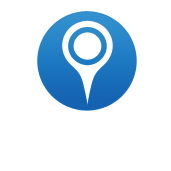
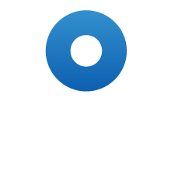
WIP: Initializing new view modules for search menu & settings menu. Replacing existing assets with new assets. Buddy: John

Changed region(s): [[0.2047, 0.0877, 0.8187, 0.6725], [0.4094, 0.0585, 0.614, 0.0877], [0.3509, 0.0877, 0.3801, 0.117]]

diff --git a/windows/src/AppHost.cpp b/windows/src/AppHost.cpp
@@ -85,6 +85,8 @@
 #include "WindowsPersistentSettingsModel.h"
 #include "IHttpCache.h"
 #include "HttpCache.h"
+#include "SearchMenuViewModule.h"
+#include "SettingsMenuViewModule.h"
 
 using namespace Eegeo::Windows;
 using namespace Eegeo::Windows::Input;
@@ -472,26 +474,25 @@ void AppHost::CreateApplicationViewModulesFromUiThread()
         m_messageBus
         );
 
-    /*m_pSecondaryMenuViewModule = Eegeo_NEW(ExampleApp::SecondaryMenu::View::SecondaryMenuViewModule)(
-        "ExampleAppWPF.SecondaryMenuView",
+    m_pSettingsMenuViewModule = Eegeo_NEW(ExampleApp::SettingsMenu::View::SettingsMenuViewModule)(
+        "ExampleAppWPF.SettingsMenuView",
         m_nativeState,
-        app.SecondaryMenuModule().GetSecondaryMenuModel(),
-        app.SecondaryMenuModule().GetSecondaryMenuViewModel(),
+        app.SettingsMenuModule().GetSettingsMenuModel(),
+        app.SettingsMenuModule().GetSettingsMenuViewModel(),
+        m_pModalBackgroundViewModule->GetView(),
         m_messageBus
-        );*/
+        );
 
-    /*m_pSearchResultMenuViewModule = Eegeo_NEW(ExampleApp::SearchResultMenu::View::SearchMenuViewModule)(
+    m_pSearchMenuViewModule = Eegeo_NEW(ExampleApp::SearchMenu::View::SearchMenuViewModule)(
         "ExampleAppWPF.SearchMenuView",
         m_nativeState,
-        app.SearchResultMenuModule().GetSearchResultMenuModel(),
-        app.SearchResultMenuModule().GetMenuViewModel(),
+        app.SearchMenuModule().GetSearchMenuModel(),
+        app.SearchMenuModule().GetSearchMenuViewModel(),
+        app.SearchMenuModule().GetSearchSectionViewModel(),
         app.CategorySearchModule().GetCategorySearchRepository(),
-        app.SearchResultMenuModule().GetSearchResultMenuViewModel(),
-        app.SearchResultMenuModule().GetSearchResultMenuOptionsModel(),
-        app.SearchResultMenuModule().GetSearchResultMenuOrder(),
-        app.GetAppModeModel(),
+        m_pModalBackgroundViewModule->GetView(),
         m_messageBus
-        );*/
+        );
 
     // Pop-up layer.
     m_pSearchResultPoiViewModule = Eegeo_NEW(ExampleApp::SearchResultPoi::View::SearchResultPoiViewModule)(

diff --git a/windows/src/SearchMenu/View/SearchMenuViewModule.h b/windows/src/SearchMenu/View/SearchMenuViewModule.h
@@ -12,6 +12,7 @@
 #include "Rendering.h"
 #include "SearchMenuController.h"
 #include "Types.h"
+#include "IMenuViewModule.h"
 
 namespace ExampleApp
 {
@@ -19,7 +20,7 @@ namespace ExampleApp
     {
         namespace View
         {
-            class SearchMenuViewModule: public ISearchMenuViewModule, private Eegeo::NonCopyable
+            class SearchMenuViewModule: public Menu::View::IMenuViewModule, private Eegeo::NonCopyable
             {
             private:
                 SearchMenuController* m_pController;
@@ -27,19 +28,19 @@ namespace ExampleApp
                 
             public:
                 SearchMenuViewModule(const std::string& viewName,
-                                     WindowsNativeState& nativeState, Menu::View::IMenuModel& searchMenuModel,
+                                     WindowsNativeState& nativeState,
+                                     Menu::View::IMenuModel& searchMenuModel,
                                      Menu::View::IMenuViewModel& searchMenuViewModel,
                                      Menu::View::IMenuSectionViewModel& searchSectionViewModel,
-                                     const Eegeo::Rendering::ScreenProperties& screenProperties,
                                      CategorySearch::View::ICategorySearchRepository& categorySearchRepository,
                                      Modality::View::IModalBackgroundView& modalBackgroundView,
                                      ExampleAppMessaging::TMessageBus& messageBus);
                 
                 ~SearchMenuViewModule();
                 
-                Menu::View::MenuController& GetMenuController() const;
+                Menu::View::MenuController& GetMenuController();
                 
-                SearchMenuView& GetSearchMenuView() const;
+                Menu::View::IMenuView& GetMenuView();
             };
         }
     }

diff --git a/windows/src/SearchMenu/View/SearchMenuViewModule.cpp b/windows/src/SearchMenu/View/SearchMenuViewModule.cpp
@@ -17,7 +17,6 @@ namespace ExampleApp
                                                        Menu::View::IMenuModel& searchMenuModel,
                                                        Menu::View::IMenuViewModel& searchMenuViewModel,
                                                        Menu::View::IMenuSectionViewModel& searchSectionViewModel,
-                                                       const Eegeo::Rendering::ScreenProperties& screenProperties,
                                                        CategorySearch::View::ICategorySearchRepository& categorySearchRepository,
                                                        Modality::View::IModalBackgroundView& modalBackgroundView,
                                                        ExampleAppMessaging::TMessageBus& messageBus)
@@ -41,12 +40,12 @@ namespace ExampleApp
                 Eegeo_DELETE m_pView;
             }
 
-            Menu::View::MenuController& SearchMenuViewModule::GetMenuController() const
+            Menu::View::MenuController& SearchMenuViewModule::GetMenuController()
             {
                 return *m_pController;
             }
 
-            SearchMenuView& SearchMenuViewModule::GetSearchMenuView() const
+            Menu::View::IMenuView& SearchMenuViewModule::GetMenuView()
             {
                 return *m_pView;
             }

diff --git a/windows/src/SettingsMenu/View/SettingsMenuViewModule.h b/windows/src/SettingsMenu/View/SettingsMenuViewModule.h
@@ -12,6 +12,7 @@
 #include "BidirectionalBus.h"
 #include "SettingsMenuController.h"
 #include "Modality.h"
+#include "IMenuViewModule.h"
 
 namespace ExampleApp
 {
@@ -19,7 +20,7 @@ namespace ExampleApp
     {
         namespace View
         {
-            class SettingsMenuViewModule: public ISettingsMenuViewModule, private Eegeo::NonCopyable
+            class SettingsMenuViewModule: public Menu::View::IMenuViewModule, private Eegeo::NonCopyable
             {
             private:
                 SettingsMenuView* m_pView;
@@ -37,8 +38,8 @@ namespace ExampleApp
 
                 ~SettingsMenuViewModule();
 
-                Menu::View::MenuController& GetMenuController() const;
-                Menu::View::IMenuView& GetMenuView() const;
+                Menu::View::MenuController& GetMenuController();
+                Menu::View::IMenuView& GetMenuView();
             };
         }
     }

diff --git a/windows/src/SettingsMenu/View/SettingsMenuViewModule.cpp b/windows/src/SettingsMenu/View/SettingsMenuViewModule.cpp
@@ -35,22 +35,17 @@ namespace ExampleApp
 
             SettingsMenuViewModule::~SettingsMenuViewModule()
             {
-                ASSERT_UI_THREAD
-
                 Eegeo_DELETE m_pController;
                 Eegeo_DELETE m_pView;
             }
 
-            Menu::View::MenuController& SettingsMenuViewModule::GetMenuController() const
+            Menu::View::MenuController& SettingsMenuViewModule::GetMenuController()
             {
-                ASSERT_UI_THREAD
-
                 return *m_pController;
             }
 
-            Menu::View::IMenuView& SettingsMenuViewModule::GetMenuView() const
+            Menu::View::IMenuView& SettingsMenuViewModule::GetMenuView()
             {
-                ASSERT_UI_THREAD
                 return *m_pView;
             }
         }

diff --git a/windows/src/ModalBackground/View/IModalBackgroundViewModule.h b/windows/src/ModalBackground/View/IModalBackgroundViewModule.h
@@ -2,6 +2,9 @@
 
 #pragma once
 
+#include "IModalBackgroundView.h"
+#include "ModalBackgroundController.h"
+
 namespace ExampleApp
 {
     namespace ModalBackground
@@ -12,6 +15,9 @@ namespace ExampleApp
             {
             public:
                 virtual ~IModalBackgroundViewModule() { }
+
+                virtual Modality::View::IModalBackgroundView& GetView() = 0;
+                virtual Modality::View::ModalBackgroundController& GetController() = 0;
             };
         }
     }

diff --git a/windows/src/ModalBackground/View/ModalBackgroundViewModule.cpp b/windows/src/ModalBackground/View/ModalBackgroundViewModule.cpp
@@ -30,6 +30,15 @@ namespace ExampleApp
                 Eegeo_DELETE(m_pController);
                 Eegeo_DELETE(m_pView);
             }
+            Modality::View::IModalBackgroundView& ModalBackgroundViewModule::GetView()
+            {
+                return *m_pView;
+            }
+
+            Modality::View::ModalBackgroundController& ModalBackgroundViewModule::GetController()
+            {
+                return *m_pController;
+            }
         }
     }
 }

diff --git a/windows/src/Menu/View/IMenuViewModule.h b/windows/src/Menu/View/IMenuViewModule.h
@@ -16,8 +16,8 @@ namespace ExampleApp
             public:
                 virtual ~IMenuViewModule() { }
 
-                virtual IMenuView& GetMenuView() const = 0;
-                virtual MenuController& GetMenuController() const = 0;
+                virtual IMenuView& GetMenuView() = 0;
+                virtual MenuController& GetMenuController() = 0;
             };
         }
     }

diff --git a/windows/src/ModalBackground/View/ModalBackgroundViewModule.h b/windows/src/ModalBackground/View/ModalBackgroundViewModule.h
@@ -29,6 +29,9 @@ namespace ExampleApp
                 );
 
                 ~ModalBackgroundViewModule();
+
+                Modality::View::IModalBackgroundView& GetView();
+                Modality::View::ModalBackgroundController& GetController();
             };
         }
     }
